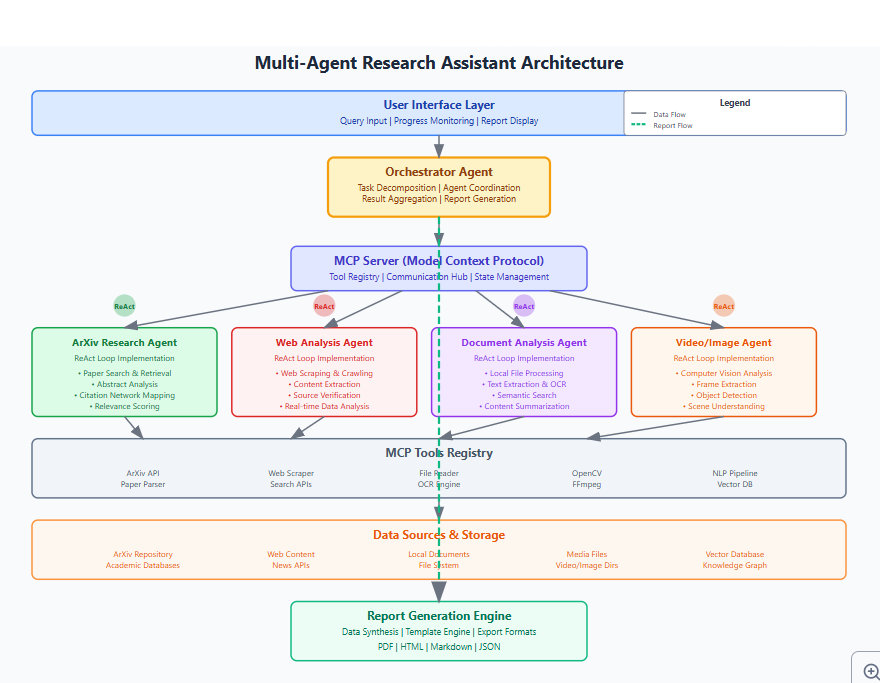
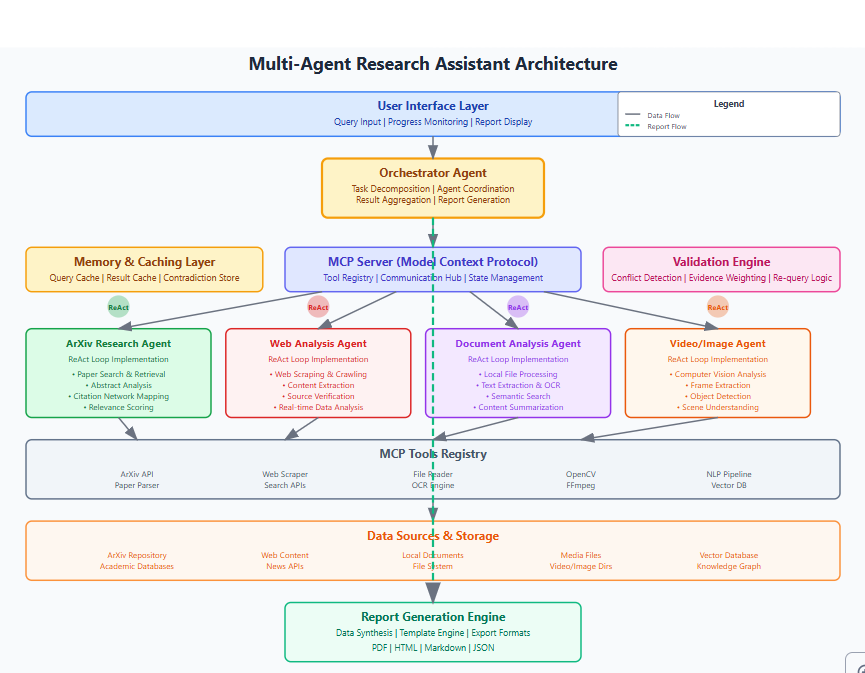
feat(memory_cache): enhance caching layer with OpenAI embeddings and reporting

diff --git a/src/memory_cache.py b/src/memory_cache.py
@@ -8,10 +8,11 @@ import redis.asyncio as redis
 import chromadb
 from chromadb.config import Settings
 import numpy as np
-# from sentence_transformers import SentenceTransformer
+import openai
+from openai import OpenAI
 
 from utils.logger import get_logger
-from config import REDIS_CONFIG, CHROMA_CONFIG
+from config import REDIS_CONFIG, CHROMA_CONFIG, OPENAI_CONFIG
 
 logger = get_logger(__name__)
 
@@ -34,7 +35,7 @@ class AgentResult:
     result_data: Dict[str, Any]
     confidence_score: float
     plan_id: str
-    created_id: datetime
+    created_at: datetime
     source_metadata: Dict[str, Any]
     
 @dataclass
@@ -79,12 +80,32 @@ class MemoryCacheLayer:
             name="contradictions", 
             metadata={"description": "Contradiction records and resolutions"}
         )
+        
+        self.report_collection = self.chroma_client.get_or_create_collection(
+            name="research_reports",
+            metadata={"description": "Final research reports"}
+        )
 
-        self.default_ttl = 3600 * 24 * 7  # 1 week default TTL
+        self.default_ttl = 3600 * 24 * 7  # 1 week default Time to Live
         self.similarity_threshold = 0.8
+        
+        self.client = OpenAI(api_key=OPENAI_CONFIG["api_key"])
         
         logger.info("Memory and caching layer initialized successfully")
         
+    async def _generate_embedding(self, text: str) -> List[float]:
+        
+        try:
+            response = await self.client.embeddings.create(
+                model="text-embedding-3-small",
+                input=text
+            )
+            return response.data[0].embedding
+            
+        except Exception as e:
+            logger.error(f"Error generating embedding: {e}")
+            # Return a zero vector as fallback
+            return [0.0] * 1536
         
     async def check_similar_queries(self, query: str, similarity_threshold: float = None) -> List[Dict[str, Any]]:
         
@@ -94,7 +115,7 @@ class MemoryCacheLayer:
         logger.info(f"Checking for similar queries to: {query}")
         
         try:
-            query_embedding  = "" # need to write the code using openai
+            query_embedding  = await self._generate_embedding(query)
             
             similar_results = self.query_collection.query(
                 query_embeddings=[query_embedding],
@@ -124,6 +145,7 @@ class MemoryCacheLayer:
                         
                         similar_queries.append(cached_query_data)
                         await self._update_query_access(query_id)
+                        
             logger.info(f"Found {len(similar_queries)} similar queries above threshold {similarity_threshold}")
             return similar_queries
             
@@ -131,5 +153,256 @@ class MemoryCacheLayer:
             logger.error(f"Error checking similar queries: {e}")
             return []
         
+    async def store_query(self, query: str, plan_id:str) -> str:
+        """
+            Store a new research query with its embedding for future similarity matching.
+        """
+        try:
+            query_hash = hashlib.md5(query.encode()).hexdigest()
+            query_embeddings = await self._generate_embedding(query)
+            
+            # store data in chromaDB for similarity search
+            self.query_collection.add(
+                ids=[query_hash],
+                documents=[query],
+                embeddings=[query_embeddings],
+                metadatas=[{
+                    "plan_id" : plan_id,
+                    "created_at" : datetime.now().isoformat(),
+                    "access_counta" : 1
+                }]
+            )
+            
+            # store detailed query info in redis
+            query_data = {
+                "query_hash" : query_hash,
+                "original_query" : query,
+                "plan_id": plan_id,
+                "created_at": datetime.now().isoformat(),
+                "access_count": 1
+            }
+            
+            await self.redis_client.setex(
+                f"query : {query_hash}",
+                self.default_ttl,
+                json.dumps(query_data)
+            )
+            
+            logger.info(f"stored query with hash : {query_hash}")
+            return query_hash
+            
+        except Exception as e:
+            logger.error(f"Error storing query: {e}")
+            return ""
         
+    async def store_agent_results(self, 
+        agent_type: str, query: str, result_data: Dict[str, Any], plan_id: str, confidence_score: float = 0.7
+    ) -> str:
+        
+        """
+            Store results from individual agents with metadata for later retrieval and analysis.
+        """
+        try:
+            result_id = f"{agent_type}_{plan_id}_{datetime.now().timestamp()}"
+            
+            agent_result = AgentResult(
+                result_id = result_id,
+                agent_type = agent_type,
+                query = query,
+                result_data = result_data,
+                confidence_score = confidence_score,
+                plan_id = plan_id,
+                created_at = datetime.now(),
+                source_metadata = result_data.get("metadata", {})
+            )
+        
+            result_text = json.dumps(result_data, default=str)
+            result_embedding = await self._generate_embedding(result_text)
+            
+            # store in chromDB for semantic search
+            self.results_collection.add(
+                ids=[result_id],
+                documents=[result_text],
+                embeddings=[result_embedding],
+                metadatas=[{
+                    "agent_type" : agent_type,
+                    "plan_id" : plan_id,
+                    "confidence_score" : confidence_score,
+                    "created_at" : datetime.now().isoformat()
+                }]
+            )
+
+            # store detailed result in redis
+            await self.redis_client.setex(
+                f"result : {result_id}",
+                self.default_ttl,
+                json.dumps(asdict(agent_result), default=str)
+            )
+            
+            # add to plan's result list
+            await self.redis_client.lpush(f"plan_results : {plan_id}", result_id)
+            
+            logger.info(f"Stored result from {agent_type}: {result_id}")
+            return result_id
+        
+        except Exception as e:
+            logger.error(f"Error storing agent result: {e}")
+            return "" 
     
+    async def get_relevant_context(self, query: str, max_results: int = 5) -> List[Dict[str, Any]]:
+        try:
+            query_embedding = await self._generate_embedding(query)
+            
+            # Search for relevant results
+            relevant_results = self.results_collection.query(
+                query_embeddings=[query_embedding],
+                n_results=max_results,
+                include=['metadatas', 'documents', 'distances']
+            )
+            
+            context_data = []
+            if relevant_results['ids'][0]:
+                for idx, result_id in enumerate(relevant_results['ids'][0]):
+
+                    result_data = await self.redis_client.get(f"result:{result_id}")
+                    if result_data:
+                        result_obj = json.loads(result_data)
+                        context_data.append({
+                            "result_id": result_id,
+                            "agent_type": result_obj["agent_type"],
+                            "confidence_score": result_obj["confidence_score"],
+                            "relevance_score": 1 - relevant_results["distances"][0][idx],
+                            "summary": result_obj["result_data"].get("summary", "")
+                        })
+            
+            return context_data
+            
+        except Exception as e:
+            logger.error(f"Error getting relevant context: {e}")
+            return []
+    
+    async def store_contradiction(self, contradiction_record: ContradictionRecord) -> str:
+        try:
+            # Store in ChromaDB for similarity search
+            contradiction_text = json.dumps({
+                "conflicting_results": contradiction_record.conflicting_results,
+                "contradiction_type": contradiction_record.contradiction_type
+            })
+            contradiction_embedding = await self._generate_embedding(contradiction_text)
+            
+            self.contradictions_collection.add(
+                ids=[contradiction_record.contradiction_id],
+                documents=[contradiction_text],
+                embeddings=[contradiction_embedding],
+                metadatas=[{
+                    "contradiction_type": contradiction_record.contradiction_type,
+                    "is_resolved": contradiction_record.is_resolved,
+                    "created_at": contradiction_record.created_at.isoformat()
+                }]
+            )
+            
+            # Store detailed record in Redis
+            await self.redis_client.setex(
+                f"contradiction:{contradiction_record.contradiction_id}",
+                self.default_ttl,
+                json.dumps(asdict(contradiction_record), default=str)
+            )
+            
+            logger.info(f"Stored contradiction: {contradiction_record.contradiction_id}")
+            return contradiction_record.contradiction_id
+            
+        except Exception as e:
+            logger.error(f"Error storing contradiction: {e}")
+            return ""
+        
+    async def store_final_report(self, plan_id: str, report_content: str, original_query: str) -> str:
+        try:
+            report_id = f"report_{plan_id}_{datetime.now().timestamp()}"
+            report_embedding = await self._generate_embedding(report_content)
+            
+            self.report_collection.add(
+                ids=[report_id],
+                documents=[report_content],
+                embeddings=[report_embedding],
+                metadatas=[{
+                    "plan_id": plan_id,
+                    "original_query": original_query,
+                    "created_at": datetime.now().isoformat()
+                }]
+            )
+            
+            # Store detailed report in Redis
+            report_data = {
+                "report_id": report_id,
+                "plan_id": plan_id,
+                "original_query": original_query,
+                "content": report_content,
+                "created_at": datetime.now().isoformat()
+            }
+            
+            await self.redis_client.setex(
+                f"report:{report_id}",
+                self.default_ttl * 4,  # Keep reports longer
+                json.dumps(report_data)
+            )
+            
+            await self.redis_client.set(f"plan_report:{plan_id}", report_id)
+            
+            logger.info(f"Stored final report: {report_id}")
+            return report_id
+            
+        except Exception as e:
+            logger.error(f"Error storing final report: {e}")
+            return "" 
+        
+    async def _get_cached_results(self, plan_id: str) -> List[Dict[str, Any]]:
+        try:
+            result_ids = await self.redis_client.lrange(f"plan_results:{plan_id}", 0, -1)
+            cached_results = []
+            
+            for result_id in result_ids:
+                result_data = await self.redis_client.get(f"result:{result_id}")
+                if result_data:
+                    cached_results.append(json.loads(result_data))
+            
+            return cached_results
+            
+        except Exception as e:
+            logger.error(f"Error getting cached results: {e}")
+            return []
+        
+    async def _update_query_access(self, query_id: str):
+        """
+            Update access count and timestamp for cached queries.
+        """
+        try:
+            access_key = f"query_access:{query_id}"
+            await self.redis_client.incr(access_key)
+            await self.redis_client.set(f"query_last_access:{query_id}", datetime.now().isoformat())
+                    
+        except Exception as e:
+            logger.error(f"Error updating query access: {e}")
+            
+    async def get_plan_status(self, plan_id: str) -> Dict[str, Any]:
+        """
+            Get comprehensive status information for a research plan.
+        """
+        try:
+
+            results = await self._get_cached_results(plan_id)
+            report_id = await self.redis_client.get(f"plan_report:{plan_id}")
+            
+            status = {
+                "plan_id": plan_id,
+                "total_results": len(results),
+                "agents_completed": list(set([r["agent_type"] for r in results])),
+                "average_confidence": sum([r["confidence_score"] for r in results]) / len(results) if results else 0,
+                "has_final_report": report_id is not None,
+                "report_id": report_id
+            }
+            
+            return status
+            
+        except Exception as e:
+            logger.error(f"Error getting plan status: {e}")
+            return {"error": str(e)}
